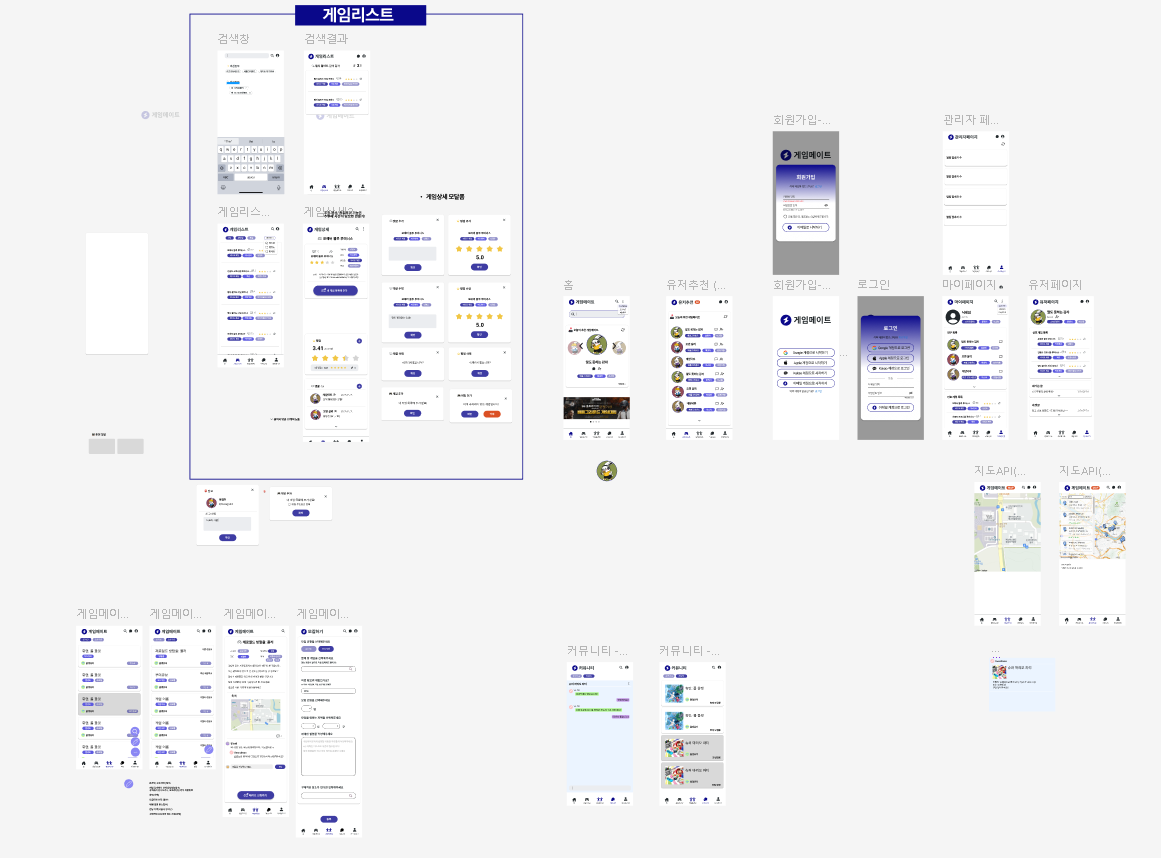
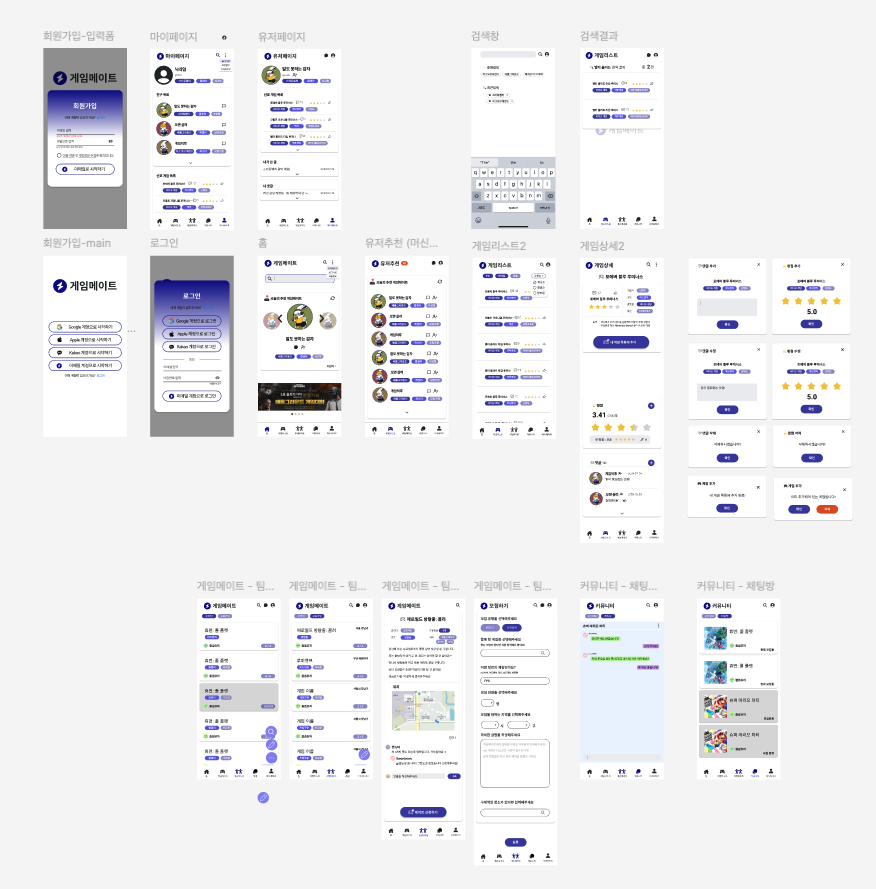
readme 수정

diff --git a/README.md b/README.md
@@ -1,29 +1,29 @@
 # ![img.png](images/logo.png) Gamemate 
 
 ***
-### 개발 기간
+## 개발 기간
  24.07.24 ~ 08.16
 
 ***
-### 배포 주소
+## 배포 주소
 
 * * *
-### 프로젝트 목적
+## 프로젝트 목적
 * 유저가 다양한 게임 모임을 생성/참여하여 커뮤니티를 이룸
-* 사용자가 선호 카테고리, 플레이 시간대를 선택하여 그것을 바탕으로 비슷한 유저를 추천함
+* 사용자가 선호 카테고리, 플레이 시간대를 선택하여 그것을 바탕으로 다른 유저를 추천함
 * 채팅창을 통한 실시간 소통과 편리한 의사소통을 가능하게 함
 
 ***
-### ERD
-![ERD.png](images%2FERD.png)
+## ERD
+
 ***
-### FlowChart
+## FlowChart
 ![flowchart.png](images%2Fflowchart.png)
 ***
 ### WireFrame
-![wireframe.png](images%2Fwireframe.png)
+![img.png](images/wireframe.png)
 ***
-### 기술 스택
+## 기술 스택
 
 백엔드
 
@@ -37,11 +37,12 @@
 
 ![img_2.png](images/amazons3.png)![img.png](images/docker.png)
 
-추가할거 생각나시면 말씀해주세요
+ML
+
 
 
 ***
-### Directory 구조 
+## Directory 구조 
 
 
     .
@@ -89,22 +90,81 @@
 ***
 ### 프로젝트 기능 명세
 
-작성중..
+## 1. 유저 기능
+* Spring Security + JWT 기반 사용자 인증/인가
+* 회원
+  * 회원 가입 시 비밀번호 암호화
+  * 중복 이메일 불가
+  * 선호 장르, 활동 시간대 설정
+* 로그인
+  * 로그인 시 Token 발급
+* 마이 페이지
+  * 마이 페이지를 통해 정보 수정 
+  * 선호 게임, 내가 쓴 글 목록 확인 
+  * 친구 요청과 보낸 친구 요청 관리
+  * 회원 탈퇴 
+## 2. 게임 리스트 기능
+* 게임 리스트
+  * 게임 정보를 API를 통해 가져와 DB에 저장
+  * 플랫폼 별로 필터링 
+  * 별점 순, 댓글 순으로 정렬 
+  * 게임 제목 검색 
+* 상세 페이지
+  * 추가, 삭제 버튼을 이용하여 유저가 선호 게임으로 추가, 삭제 
+  * 유저는 해당 게임의 평점을 게시할 수 있음
+    * 평점을 게시하면 게시가 불가능해지고 수정, 삭제만 가능
+  * 댓글
+    * 댓글이 10개가 넘어가면 토글버튼을 클릭 후 확인 가능
+## 3. 게시글 기능
+  * 온라인, 오프라인 구분하여 글 작성
+    * 오프라인은 지역을 선택 기능 추가
+    * 지도를 통하여 원하는 장소 선택 
+  * 상세 페이지
+    * 댓글
+      * 대댓글 가능
+      * 원댓글을 삭제해도 대댓글이 삭제되지 않음
+    * 신청
+      * 신청 버튼을 통해 채팅방에 참여 가능
+      * 방장에게만 신청 메세지가 보임
+      * 방장이 수락하면 채팅방 멤버가 됨
+## 4. 채팅 기능
+* 채팅방은 본인이 방장이거나 멤버로 있는 채팅방만 표시
+* 채팅
+  * 최신 메세지를 보고 있을 경우 추가된 메세지가 바로 보임
+  * 이전 메세지를 보고 있을 경우 새로운 메세지 알림 버튼을 클릭하여 최신 메세지로 이동
+  * 데이터를 필요할 때 마다 가져오면서 무한 스크롤 구현
+## 5. 관리자 기능
+* google analytics 를 통해 접속자 수, 평균 참여 시간, 행동 등을 파악
+* 
+## 6. 유저 추천 기능
+* 
 
 ***
 ### API 명세서
-swagger로 보여주기
+swagger로 보여주기 - 배포 이후에 링크 넣기
 
 ***
 ### 역할 분담
 
 * 박원정
+  * 머신러닝 모델 및 전용 서버 구축
+  * 유저 관계 시스템(친구) 구현 
+  
 * 고의성
+  * 회원 인증/인가 처리
 * 김경래
+  * amazon s3을 이용한 프로필 이미지 설정 구현
+  * google analytics 연동 
 * 김연지
+  * 게시글 CRUD 구현
 * 김이삭
+  * 채팅 기능 구현
 * 조한휘
+  * 프론트 레이아웃 구현
+  * 게임리스트 CRUD 구현
 
-ppt 내용 바탕으로 추가 예정
+표로 다시 만들어서 사진 추가 예정
+
+
 
 
